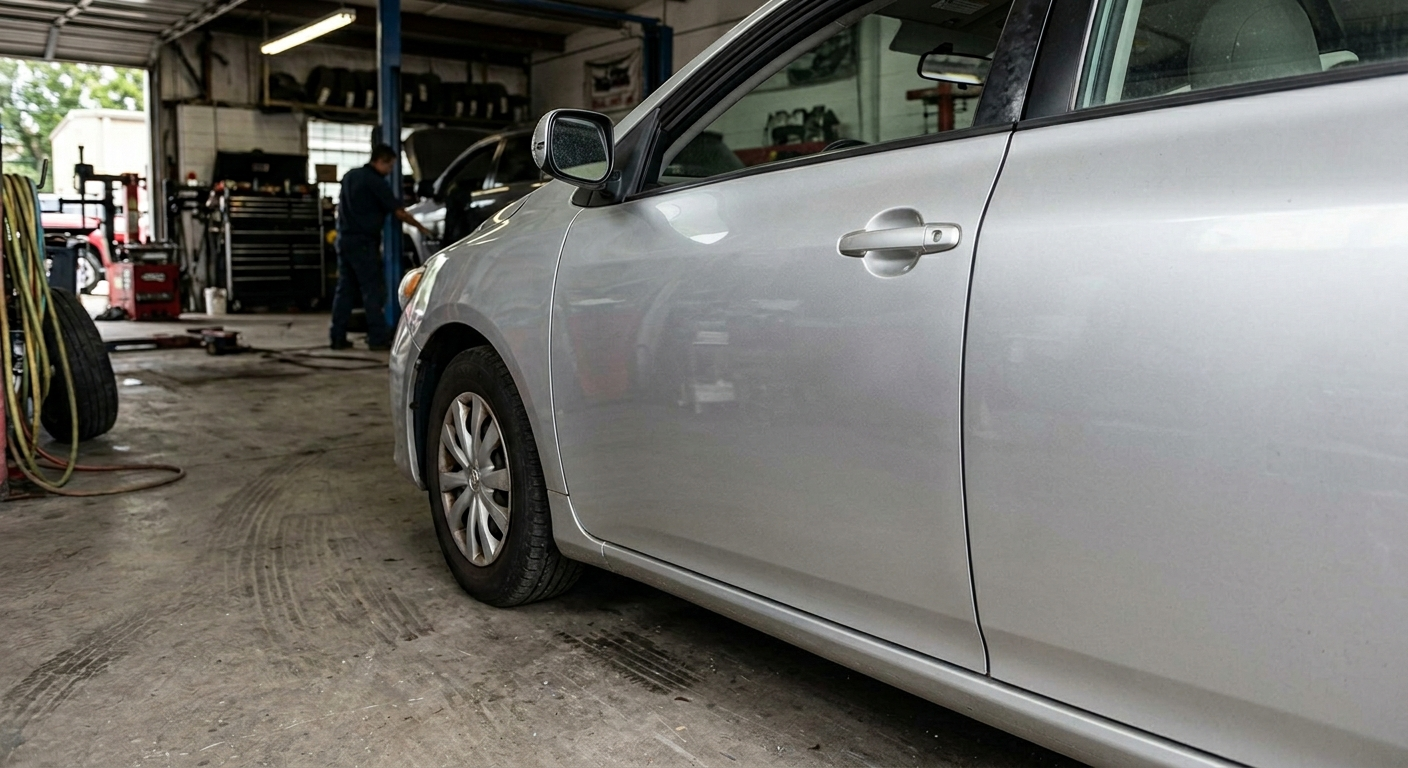
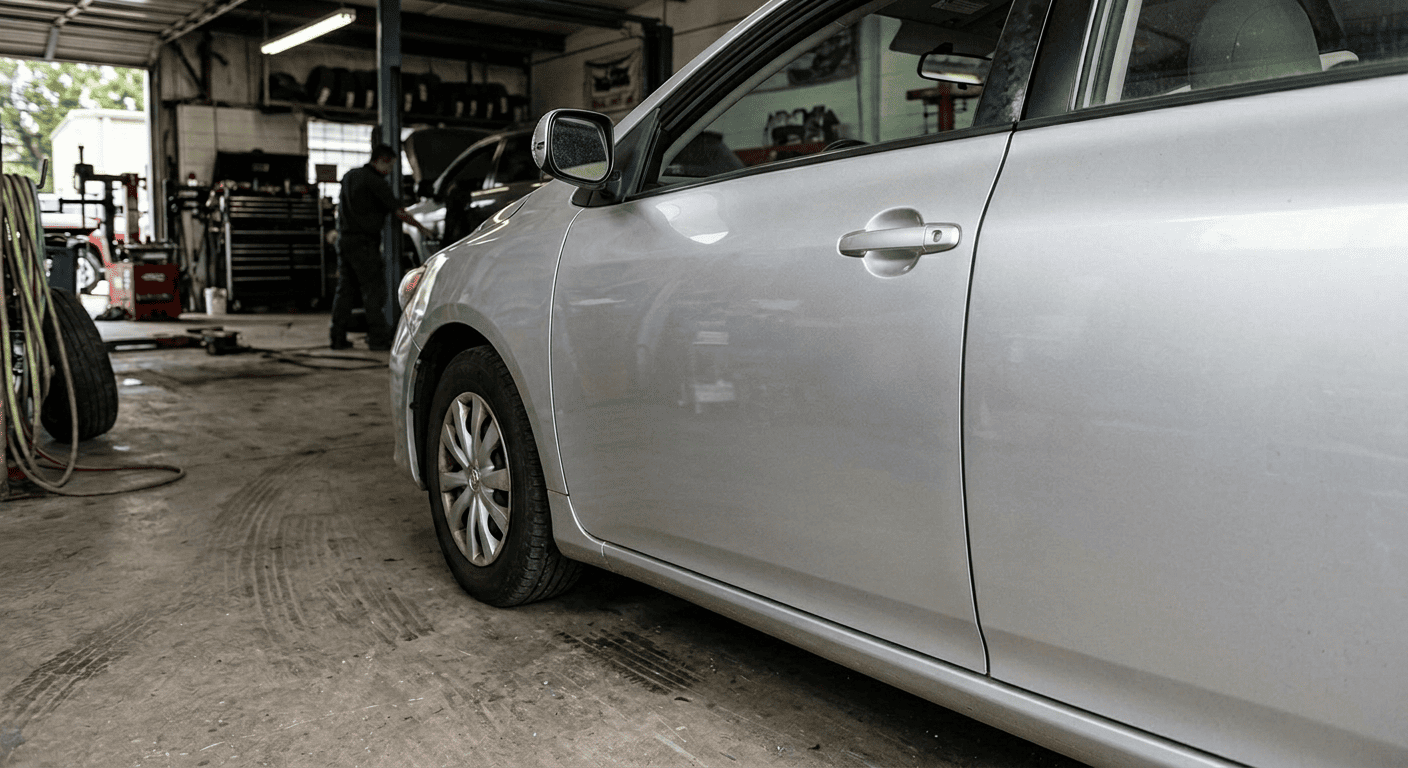
fix(gallery, services, pages): update image paths to remove 'octane' directory
Updated image paths in gallery, services, and about pages to remove the 'octane' directory, ensuring consistency and improved accessibility of image resources.

diff --git a/pages/about.md b/pages/about.md
@@ -1,5 +1,5 @@
 ---
-heroImage: "/content-uploads/octane/about/equipo-octane.jpg"
+heroImage: "/content-uploads/about/equipo-octane.jpg"
 heroTitle: "QUIÉNES SOMOS"
 heroSubtitle: "Sin corporativos. Sin frases vacías. Solo trabajo real."
 storyTitle: "NACIMOS POR LO MISMO QUE TÚ ESTÁS AQUÍ."
@@ -16,15 +16,15 @@ team:
   - name: "Marco Solano"
     role: "Mecánico General"
     bio: "Especialista en motor y diagnóstico eléctrico automotriz"
-    photo: "/content-uploads/octane/about/tecnico-01.jpg"
+    photo: "/content-uploads/about/tecnico-01.jpg"
   - name: "Andrés Mora"
     role: "Especialista en Carrocería"
     bio: "Enderezado y preparación de superficie con banco de estiramiento"
-    photo: "/content-uploads/octane/about/tecnico-02.jpg"
+    photo: "/content-uploads/about/tecnico-02.jpg"
   - name: "Luis Vargas"
     role: "Pintor Automotriz"
     bio: "Pintura y corrección de color con escáner espectrofotométrico"
-    photo: "/content-uploads/octane/about/tecnico-03.jpg"
+    photo: "/content-uploads/about/tecnico-03.jpg"
 ---
 
 Octane nació porque los talleres que conocíamos prometían mucho y explicaban poco. Hoy hacemos lo opuesto: te mostramos el diagnóstico, te explicamos el trabajo, y si no es necesario — no lo hacemos.

diff --git a/gallery/galeria-1.md b/gallery/galeria-1.md
@@ -1,7 +1,7 @@
 ---
 title: "Choque lateral → Enderezado + pintura → Entregado en 3 días"
-imageBefore: "/content-uploads/octane/gallery/trabajo-01-antes.png"
-image: "/content-uploads/octane/gallery/trabajo-01-despues.png"
+imageBefore: "/content-uploads/gallery/trabajo-01-antes.png"
+image: "/content-uploads/gallery/trabajo-01-despues.png"
 alt: "Puerta delantera restaurada tras choque lateral, pintura igualada"
 category: "Chapa"
 order: 1

diff --git a/gallery/galeria-2.md b/gallery/galeria-2.md
@@ -1,7 +1,7 @@
 ---
 title: "Oxidación severa → Repintado completo → Entregado en 7 días"
-imageBefore: "/content-uploads/octane/gallery/trabajo-02-antes.jpg"
-image: "/content-uploads/octane/gallery/trabajo-02-despues.jpg"
+imageBefore: "/content-uploads/gallery/trabajo-02-antes.png"
+image: "/content-uploads/gallery/trabajo-02-despues.png"
 alt: "SUV con repintado completo, acabado brillante sin oxidación"
 category: "Pintura"
 order: 2

diff --git a/gallery/galeria-3.md b/gallery/galeria-3.md
@@ -1,7 +1,7 @@
 ---
 title: "Daño por granizo — Cofre y techo"
-imageBefore: "/content-uploads/octane/gallery/trabajo-03-antes.jpg"
-image: "/content-uploads/octane/gallery/trabajo-03-despues.jpg"
+imageBefore: "/content-uploads/gallery/trabajo-03-antes.jpg"
+image: "/content-uploads/gallery/trabajo-03-despues.jpg"
 alt: "Cofre y techo restaurados con PDR sin pintura tras daño por granizo"
 category: "Chapa"
 order: 3

diff --git a/gallery/galeria-4.md b/gallery/galeria-4.md
@@ -1,7 +1,7 @@
 ---
 title: "Corrección de pintura — Rayones profundos"
-imageBefore: "/content-uploads/octane/gallery/trabajo-04-antes.jpg"
-image: "/content-uploads/octane/gallery/trabajo-04-despues.jpg"
+imageBefore: "/content-uploads/gallery/trabajo-04-antes.jpg"
+image: "/content-uploads/gallery/trabajo-04-despues.jpg"
 alt: "Flanco corregido con pintura parcial, sin rastro de rayones"
 category: "Pintura"
 order: 4

diff --git a/gallery/galeria-5.md b/gallery/galeria-5.md
@@ -1,7 +1,7 @@
 ---
 title: "Bumper trasero — Impacto menor"
-imageBefore: "/content-uploads/octane/gallery/trabajo-05-antes.jpg"
-image: "/content-uploads/octane/gallery/trabajo-05-despues.jpg"
+imageBefore: "/content-uploads/gallery/trabajo-05-antes.jpg"
+image: "/content-uploads/gallery/trabajo-05-despues.jpg"
 alt: "Bumper trasero restaurado, alineado y pintado tras impacto menor"
 category: "Chapa"
 order: 5

diff --git a/gallery/galeria-6.md b/gallery/galeria-6.md
@@ -1,7 +1,7 @@
 ---
 title: "Restauración de faros — Oxidación UV"
-imageBefore: "/content-uploads/octane/gallery/trabajo-06-antes.jpg"
-image: "/content-uploads/octane/gallery/trabajo-06-despues.jpg"
+imageBefore: "/content-uploads/gallery/trabajo-06-antes.jpg"
+image: "/content-uploads/gallery/trabajo-06-despues.jpg"
 alt: "Faros restaurados, transparentes y con protección UV"
 category: "Mecánica"
 order: 6

diff --git a/gallery/galeria-7.md b/gallery/galeria-7.md
@@ -1,7 +1,7 @@
 ---
 title: "Protección cerámica — SUV deportivo"
-imageBefore: "/content-uploads/octane/gallery/trabajo-07-antes.jpg"
-image: "/content-uploads/octane/gallery/trabajo-07-despues.jpg"
+imageBefore: "/content-uploads/gallery/trabajo-07-antes.jpg"
+image: "/content-uploads/gallery/trabajo-07-despues.jpg"
 alt: "SUV con cerámica SiO2 aplicada, efecto hidrofóbico y brillo espejo"
 category: "Pintura"
 order: 7

diff --git a/gallery/galeria-8.md b/gallery/galeria-8.md
@@ -1,7 +1,7 @@
 ---
 title: "Choque frontal — Cofre, bumper y radiador"
-imageBefore: "/content-uploads/octane/gallery/trabajo-08-antes.jpg"
-image: "/content-uploads/octane/gallery/trabajo-08-despues.jpg"
+imageBefore: "/content-uploads/gallery/trabajo-08-antes.jpg"
+image: "/content-uploads/gallery/trabajo-08-despues.jpg"
 alt: "Vehículo restaurado tras choque frontal, geometría y pintura como original"
 category: "Chapa"
 order: 8

diff --git a/pages/home.md b/pages/home.md
@@ -4,7 +4,7 @@ heroTitle: |
   DE LOS QUE NO SE CONFORMAN.
 heroSubtitle: "Mecánica, enderezado y pintura. Diagnóstico real, presupuesto transparente, garantía escrita."
 heroEyebrow: "Taller de chapa, pintura y mecánica — Desde 2015"
-heroImage: "/content-uploads/octane/home/hero-taller.jpg"
+heroImage: "/content-uploads/home/hero-taller.jpg"
 heroTags:
   - "Mecánica general"
   - "Enderezado"
@@ -34,7 +34,7 @@ aboutSummary:
   body: "Octane nació porque los talleres que conocíamos prometían mucho y explicaban poco. Hoy hacemos lo opuesto: te mostramos el diagnóstico, te explicamos el trabajo, y si no es necesario — no lo hacemos."
   ctaLabel: "Conocer el equipo"
   ctaHref: "/nosotros"
-  image: "/content-uploads/octane/about/equipo-octane.jpg"
+  image: "/content-uploads/about/equipo-octane.jpg"
 ctaBanner:
   title: "¿Listo para que tu auto vuelva a ser lo que era?"
   description: "Diagnóstico honesto, presupuesto transparente, garantía escrita."

diff --git a/services/servicio-1.md b/services/servicio-1.md
@@ -4,7 +4,7 @@ slug: "diagnostico-electrico-computarizado"
 order: 1
 icon: "cpu"
 summary: "Escáner de códigos OBD + revisión del sistema eléctrico. Sin adivinar."
-coverImage: "/content-uploads/octane/services/diagnostico-electrico-cover.jpg"
+coverImage: "/content-uploads/services/diagnostico-electrico-cover.jpg"
 ctaLabel: "Cotizar este servicio"
 ctaHref: "/contacto"
 featured: true

diff --git a/services/servicio-2.md b/services/servicio-2.md
@@ -4,7 +4,7 @@ slug: "frenos"
 order: 2
 icon: "disc"
 summary: "Balatas, discos, tambores y líquido. No esperamos a que truenen."
-coverImage: "/content-uploads/octane/services/frenos-cover.jpg"
+coverImage: "/content-uploads/services/frenos-cover.jpg"
 ctaLabel: "Cotizar este servicio"
 ctaHref: "/contacto"
 featured: true